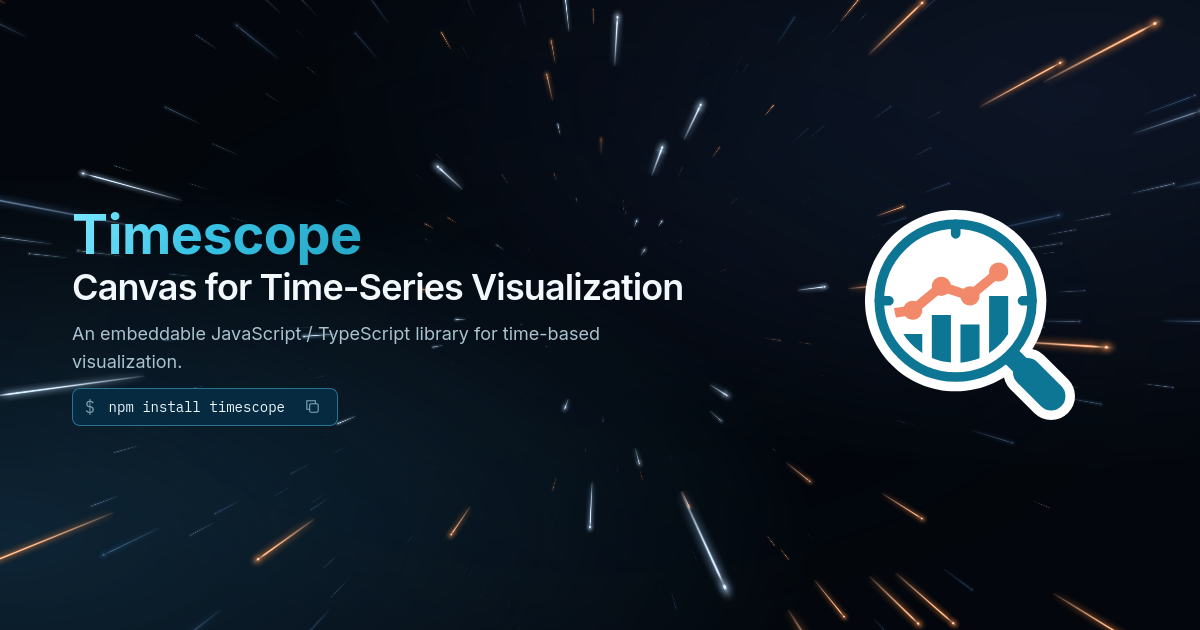
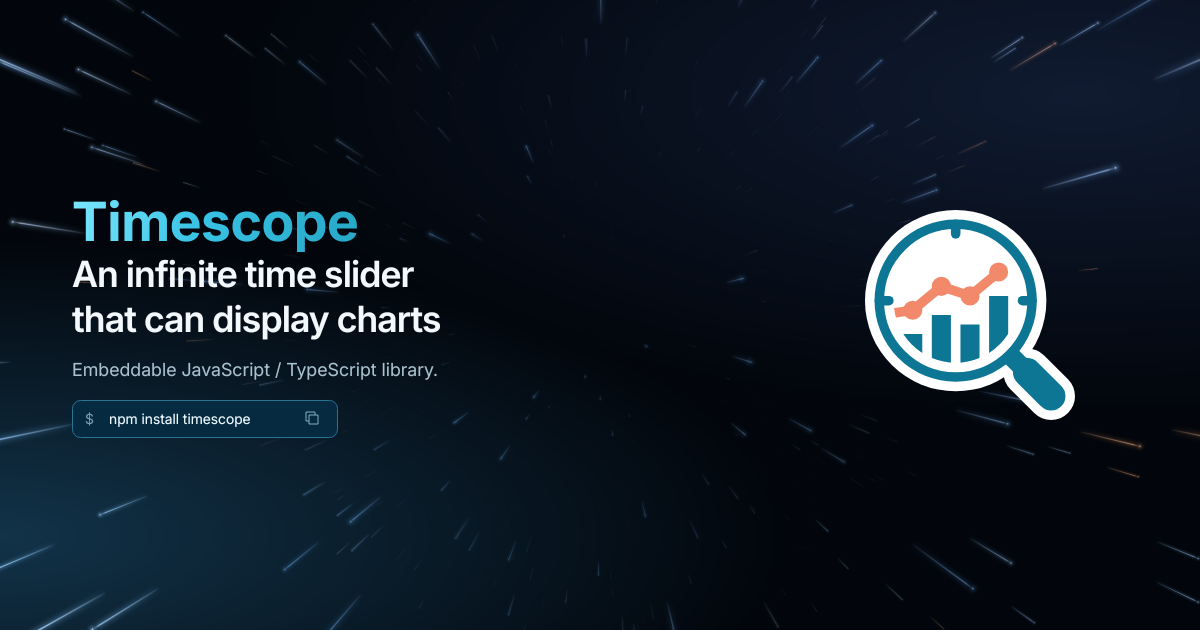
chore(docs): change a catchphrase

diff --git a/packages/timescope-docs/scripts/render-ogp.js b/packages/timescope-docs/scripts/render-ogp.js
@@ -1,0 +1,256 @@
+import { createHash } from 'node:crypto';
+import { mkdir, readFile, writeFile } from 'node:fs/promises';
+import { dirname, resolve } from 'node:path';
+import { fileURLToPath } from 'node:url';
+import { parseArgs } from 'node:util';
+import { parse } from 'yaml';
+import pkg from '../../../package.json' with { type: 'json' };
+
+const { values } = parseArgs({
+  options: {
+    output: { type: 'string', short: 'o' },
+    seed: { type: 'string', default: 'timescope-ogp' },
+    help: { type: 'boolean', short: 'h' },
+  },
+});
+
+if (values.help) {
+  console.log('Usage: node packages/timescope-docs/scripts/render-ogp.js [--seed TEXT] [--output FILE]');
+  process.exit(0);
+}
+
+// Register only our local fonts; avoid machine-specific font discovery on Linux.
+process.env.FONTCONFIG_FILE = fileURLToPath(new URL('ogp-fonts.conf', import.meta.url));
+const { Canvas, FontLibrary, loadImage } = await import('skia-canvas');
+
+const width = 1200;
+const height = 630;
+const output = values.output
+  ? resolve(values.output)
+  : fileURLToPath(new URL('../src/public/ogp.png', import.meta.url));
+
+// Read the shared description and the landing page's remaining copy and logo.
+const markdown = await readFile(new URL('../src/index.md', import.meta.url), 'utf8');
+const frontmatter = markdown.match(/^---\r?\n([\s\S]*?)\r?\n---(?:\r?\n|$)/);
+if (!frontmatter) throw new Error('Missing landing page frontmatter.');
+const { hero } = parse(frontmatter[1]);
+hero.text = pkg.description;
+for (const key of ['name', 'text', 'tagline']) {
+  if (typeof hero?.[key] !== 'string' || !hero[key].trim()) throw new Error(`Missing hero.${key}.`);
+}
+if (typeof hero.image?.src !== 'string') throw new Error('Missing hero.image.src.');
+
+FontLibrary.use(
+  'OGP Inter',
+  ['Inter_18pt-Regular.ttf', 'Inter_18pt-SemiBold.ttf', 'Inter_18pt-Bold.ttf'].map((file) =>
+    fileURLToPath(new URL(`../../../misc/static/${file}`, import.meta.url)),
+  ),
+);
+FontLibrary.use('OGP Timescope', [
+  fileURLToPath(new URL('../../timescope/src/assets/fonts/Timescope.woff2', import.meta.url)),
+]);
+
+const canvas = new Canvas(width, height);
+canvas.gpu = false;
+const context = canvas.getContext('2d');
+context.fontHinting = false;
+
+drawBackground(context, values.seed);
+
+// Fixed-size OGP layout, following the landing page's typography and spacing.
+const x = 72;
+context.font = '600 36px "OGP Inter"';
+context.letterSpacing = '-0.9px';
+const headline = wrapText(context, hero.text, 620, true);
+context.font = '400 18px "OGP Inter"';
+context.letterSpacing = '0px';
+const description = wrapText(context, hero.tagline, 620);
+const contentHeight = 60 + headline.length * 45 + 14 + description.length * 28 + 16 + 38;
+if (contentHeight > height - 96) throw new Error('Hero copy is too long for the OGP layout.');
+let y = (height - contentHeight) / 2;
+
+context.textBaseline = 'alphabetic';
+context.font = '700 54px "OGP Inter"';
+context.letterSpacing = '-0.4px';
+const nameGradient = context.createLinearGradient(x, y, x + context.measureText(hero.name).width, y + 60);
+nameGradient.addColorStop(0, '#7ce7ff');
+nameGradient.addColorStop(0.45, '#38c2e4');
+nameGradient.addColorStop(1, '#26a7c6');
+context.fillStyle = nameGradient;
+context.fillText(hero.name, x, y + 49);
+y += 60;
+
+context.font = '600 36px "OGP Inter"';
+context.letterSpacing = '-0.9px';
+context.fillStyle = '#f2f8fb';
+for (const line of headline) {
+  context.fillText(line, x, y + 35);
+  y += 45;
+}
+y += 14;
+context.font = '400 18px "OGP Inter"';
+context.letterSpacing = '0px';
+context.fillStyle = '#a9c2ce';
+for (const line of description) {
+  context.fillText(line, x, y + 20);
+  y += 28;
+}
+y += 16;
+
+context.beginPath();
+context.roundRect(x + 0.5, y + 0.5, 265, 37, 8);
+context.fillStyle = '#062b40';
+context.fill();
+context.strokeStyle = '#297393';
+context.lineWidth = 1;
+context.stroke();
+context.font = '400 14px "OGP Timescope"';
+context.fillStyle = '#7aa0ae';
+context.fillText('$', x + 13, y + 24);
+context.fillStyle = '#eefaff';
+context.fillText('npm install timescope', x + 37, y + 24);
+context.strokeStyle = '#83afbf';
+context.strokeRect(x + 237, y + 15, 9, 9);
+context.beginPath();
+context.moveTo(x + 237, y + 21);
+context.lineTo(x + 234, y + 21);
+context.lineTo(x + 234, y + 12);
+context.lineTo(x + 243, y + 12);
+context.lineTo(x + 243, y + 15);
+context.stroke();
+
+const logoPath = new URL(`../src/public/${hero.image.src.replace(/^\//, '')}`, import.meta.url);
+const svg = await readFile(logoPath, 'utf8');
+// Decode at the display size rather than upscaling the SVG's 22px intrinsic size.
+const logo = await loadImage(
+  Buffer.from(svg.replace(/\bwidth="[^"]*"/, 'width="210"').replace(/\bheight="[^"]*"/, 'height="210"')),
+);
+context.drawImage(logo, 865, (height - 210) / 2, 210, 210);
+
+const png = await canvas.toBuffer('png', { density: 1 });
+await mkdir(dirname(output), { recursive: true });
+await writeFile(output, png);
+console.log(`Rendered ${output} (${width} × ${height}, seed: ${JSON.stringify(values.seed)})`);
+console.log(`SHA-256: ${createHash('sha256').update(png).digest('hex')}`);
+
+function wrapText(ctx, text, maxWidth, balance = false) {
+  const words = text.trim().split(/\s+/);
+  if (words.some((word) => ctx.measureText(word).width > maxWidth)) {
+    throw new Error('A word in the hero copy is too wide for the OGP layout.');
+  }
+  const wrap = (limit) => {
+    const lines = [];
+    let line = '';
+    for (const word of words) {
+      const next = line ? `${line} ${word}` : word;
+      if (line && ctx.measureText(next).width > limit) {
+        lines.push(line);
+        line = word;
+      } else {
+        line = next;
+      }
+    }
+    return [...lines, line];
+  };
+  const lines = wrap(maxWidth);
+  if (!balance || lines.length === 1) return lines;
+  // Find the narrowest width that preserves the line count, like text-wrap: balance.
+  let low = Math.max(...words.map((word) => ctx.measureText(word).width));
+  let high = maxWidth;
+  while (high - low > 0.25) {
+    const middle = (low + high) / 2;
+    if (wrap(middle).length > lines.length) low = middle;
+    else high = middle;
+  }
+  return wrap(high);
+}
+
+function drawBackground(ctx, seed) {
+  const image = ctx.createImageData(width, height);
+  const light = new Float32Array(width * height * 3);
+  let state = createHash('sha256').update(seed).digest().readUInt32LE(0);
+  // Mulberry32: fixed integer arithmetic, independent of Math.random and wall time.
+  const random = () => {
+    state = (state + 0x6d2b79f5) >>> 0;
+    let value = Math.imul(state ^ (state >>> 15), state | 1);
+    value ^= value + Math.imul(value ^ (value >>> 7), value | 61);
+    return ((value ^ (value >>> 14)) >>> 0) / 4294967296;
+  };
+  const smoothstep = (a, b, value) => {
+    const t = Math.max(0, Math.min(1, (value - a) / (b - a)));
+    return t * t * (3 - 2 * t);
+  };
+  const lift = 1 - smoothstep(15, 55, 40);
+
+  // Straight flight through a fixed cylindrical star field; a 75ms exposure at 40 units/s.
+  // Light profiles follow warp-background.worker.ts: a white core, colored halo,
+  // fading trail and a round flare at the leading tip. Evaluate them on the CPU.
+  for (let i = 0; i < 1200; i++) {
+    const angle = random() * Math.PI * 2;
+    const radial = random();
+    const depth = 3 + random() * 137;
+    const radius = Math.sqrt(9 + radial * 1591);
+    const scale = 0.55 + 1.05 * random() ** 2;
+    const proximity = 1 - smoothstep(3, 110, depth);
+    const spread = (0.55 + 8 * proximity ** 3) * scale;
+    const distance = (radius * height * 0.9) / depth;
+    const trailLength = Math.max(0.5, distance - (radius * height * 0.9) / (depth + 3 * scale));
+    const dx = Math.cos(angle);
+    const dy = Math.sin(angle);
+    const headX = width / 2 + dx * distance;
+    const headY = height / 2 + dy * distance;
+    const tailX = headX - dx * trailLength;
+    const tailY = headY - dy * trailLength;
+    const minX = Math.max(0, Math.floor(Math.min(headX, tailX) - spread));
+    const maxX = Math.min(width - 1, Math.ceil(Math.max(headX, tailX) + spread));
+    const minY = Math.max(0, Math.floor(Math.min(headY, tailY) - spread));
+    const maxY = Math.min(height - 1, Math.ceil(Math.max(headY, tailY) + spread));
+    const brightness =
+      (1 - smoothstep(100, 140, depth)) *
+      (0.015 + 0.07 * lift + (1.285 - 0.07 * lift) * proximity ** (3 - 0.7 * lift)) *
+      (0.25 + radial * 0.7);
+    const color = radial > 0.82 ? [1, 0.55, 0.25] : [0.28 + 0.58 * radial, 0.61 + 0.33 * radial, 1];
+
+    for (let py = minY; py <= maxY; py++) {
+      for (let px = minX; px <= maxX; px++) {
+        if (Math.abs(-(px + 0.5 - headX) * dy + (py + 0.5 - headY) * dx) > spread + 1) continue;
+        const offset = (py * width + px) * 3;
+        // Fixed 4×4 subpixel sampling keeps the fine cores smooth at every angle.
+        for (let sample = 0; sample < 16; sample++) {
+          const x = px + ((sample % 4) + 0.5) / 4 - headX;
+          const y = py + (Math.floor(sample / 4) + 0.5) / 4 - headY;
+          const along = -(x * dx + y * dy);
+          const across = Math.abs(-x * dy + y * dx) / spread;
+          if (across >= 1 || along < -spread || along > trailLength + spread) continue;
+          const u = along / trailLength;
+          const core = Math.exp(-across * across * 110);
+          const halo = Math.exp(-across * across * 4) * 0.36;
+          const tail = Math.max(0, 1 - u) ** 0.65 * smoothstep(0, 0.12, u);
+          const glow = (core + halo) * (1 - smoothstep(0.7, 1, across));
+          const radiusSquared = (along / spread) ** 2 + across * across;
+          const pointCore = Math.exp(-radiusSquared * 85);
+          const pointHalo = Math.exp(-radiusSquared * 5) * 0.55 * (1 - smoothstep(0.7, 1, Math.sqrt(radiusSquared)));
+          const alpha = ((glow * tail + pointCore + pointHalo) * brightness) / 16;
+          const white = Math.max(core * 0.5, pointCore * 0.9);
+          for (let channel = 0; channel < 3; channel++) {
+            light[offset + channel] += (color[channel] + (1 - color[channel]) * white) * alpha;
+          }
+        }
+      }
+    }
+  }
+
+  for (let py = 0; py < height; py++) {
+    for (let px = 0; px < width; px++) {
+      const blue = Math.max(0, 1 - Math.hypot(px / width, (py / height - 0.85) * 1.4) / 0.65);
+      const violet = Math.max(0, 1 - Math.hypot(px / width - 0.9, (py / height - 0.15) * 1.4) / 0.7);
+      const pixel = py * width + px;
+      const base = [2 + blue * 16 + violet * 14, 6 + blue * 45 + violet * 21, 12 + blue * 61 + violet * 37];
+      for (let channel = 0; channel < 3; channel++) {
+        image.data[pixel * 4 + channel] = Math.min(255, Math.round(base[channel] + light[pixel * 3 + channel] * 255));
+      }
+      image.data[pixel * 4 + 3] = 255;
+    }
+  }
+  ctx.putImageData(image, 0, 0);
+}

diff --git a/packages/timescope-docs/.vitepress/config.ts b/packages/timescope-docs/.vitepress/config.ts
@@ -1,6 +1,7 @@
 import { dirname, resolve } from 'node:path';
 import { fileURLToPath } from 'node:url';
 import { defineConfig } from 'vitepress';
+import pkg from '../../../package.json' with { type: 'json' };
 import { apiMarkdown } from './api-markdown.ts';
 import { docSections } from './doc-sections.ts';
 
@@ -29,7 +30,13 @@ export default defineConfig({
   ],
   title: 'Timescope',
   titleTemplate: ':title | Timescope',
-  description: 'Timescope - Canvas for Time-Series Visualization',
+  description: `Timescope - ${pkg.description}`,
+  transformPageData(pageData) {
+    if (pageData.relativePath === 'index.md') {
+      pageData.titleTemplate = `:title - ${pkg.description}`;
+      pageData.frontmatter.hero.text = pkg.description;
+    }
+  },
   srcDir: './src',
   outDir: './dist',
   base: '/timescope/',

diff --git a/packages/timescope-docs/.vitepress/theme/landing.css b/packages/timescope-docs/.vitepress/theme/landing.css
@@ -46,6 +46,7 @@
 }
 .VPHome .VPHomeHero .text {
   font-weight: 600;
+  text-wrap: balance;
 }
 .VPHome .VPHomeHero .tagline {
   font-weight: 400;
@@ -99,7 +100,7 @@
     max-width: none;
     font-size: clamp(26px, 3vw, 36px) !important;
     line-height: 1.25 !important;
-    white-space: nowrap;
+    white-space: normal;
   }
 }
 .landing-install-command {

diff --git a/packages/timescope-docs/src/index.md b/packages/timescope-docs/src/index.md
@@ -1,12 +1,10 @@
 ---
 title: Timescope
-titleTemplate: :title - Canvas for Time-Series Visualization
 layout: home
 
 hero:
   name: Timescope
-  text: Canvas for Time-Series Visualization
-  tagline: An embeddable JavaScript / TypeScript library for time-based visualization.
+  tagline: Embeddable JavaScript / TypeScript library.
   image:
     src: /logo.svg
     alt: Timescope

diff --git a/README.md b/README.md
@@ -1,6 +1,6 @@
 # Timescope
 
-Canvas for Time-Series Visualization
+An infinite time slider that can display charts
 
 - [Documentation](https://xenodrive.github.io/timescope/)
 - [packages/timescope](packages/timescope) ([npm](https://www.npmjs.com/package/timescope))

diff --git a/packages/timescope/README.md b/packages/timescope/README.md
@@ -1,6 +1,6 @@
 # Timescope
 
-Canvas for Time-Series Visualization
+An infinite time slider that can display charts
 
 ## Features
 
